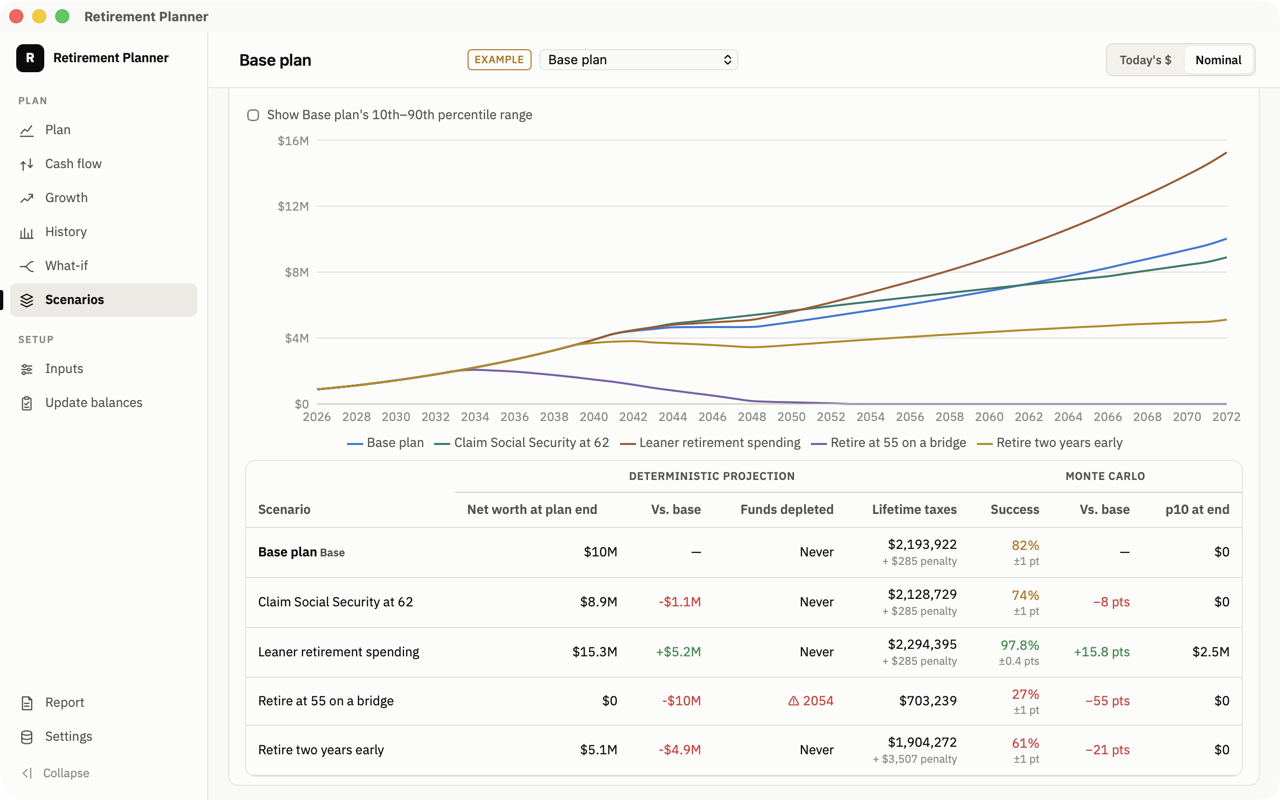
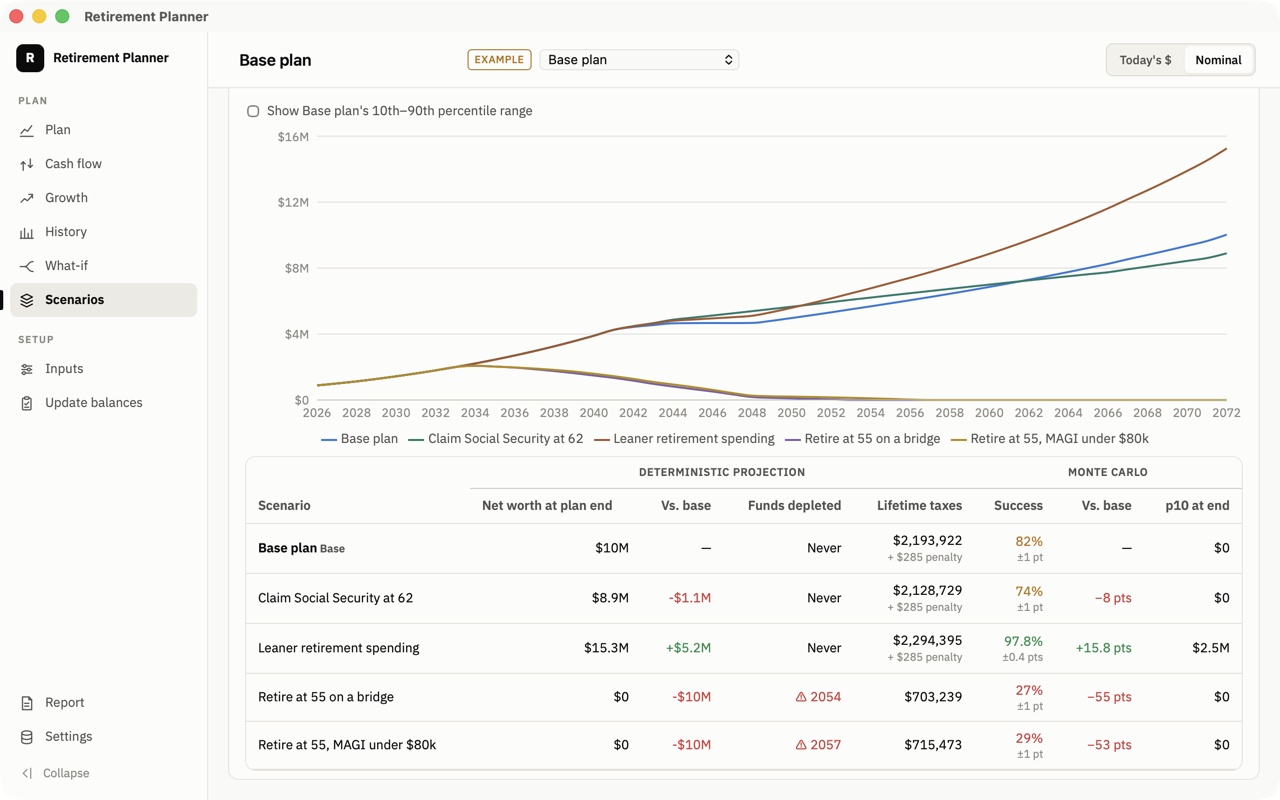
Prepare v1.4 (#190)
* Bump to 1.4.0

package.json, Cargo.toml (workspace) and tauri.conf.json together;
Cargo.lock follows. The run-app skill's scenarios.png row said "all
seven compared"; the compare view takes five, the default.

* Retake the screenshots v1.4 changed

From pnpm demo:reset, light appearance, 1280x800:
- plan.png: the year inspector now ends on MAGI (#186).
- withdrawals.png: each phase has the Draw select (#187).
- scenarios.png: the default five compared now include "Retire at 55,
  MAGI under $80k".

monte-carlo.png and why-paths-fail.png were retaken and came out
unchanged, so they are left as they were.

---------

diff --git a/.claude/skills/run-app/SKILL.md b/.claude/skills/run-app/SKILL.md
@@ -281,7 +281,7 @@ What each image shows (Base plan unless it says otherwise):
 | `one-time-contribution.png` | *Sell the house at retirement*: Inputs → Accounts → Joint brokerage, scrolled to the "Car paid off" and "House sale" cards |
 | `update-balances.png` | *Sell the house at retirement*: Update balances |
 | `what-if.png` | What-if with Alex retires at −2y and Spending at 92% (click the slider tracks), then **Run** for the Monte Carlo columns |
-| `scenarios.png` | Scenarios with all seven compared, **Run**, scrolled to the table |
+| `scenarios.png` | Scenarios with the default five compared, **Run**, scrolled to the table |
 | `tax-figures.png` | Settings → **Edit figures…**, top of the editor; close with Escape, never Save |
 
 `update-balances.png` and the Plan screen's staleness notice both say how old
